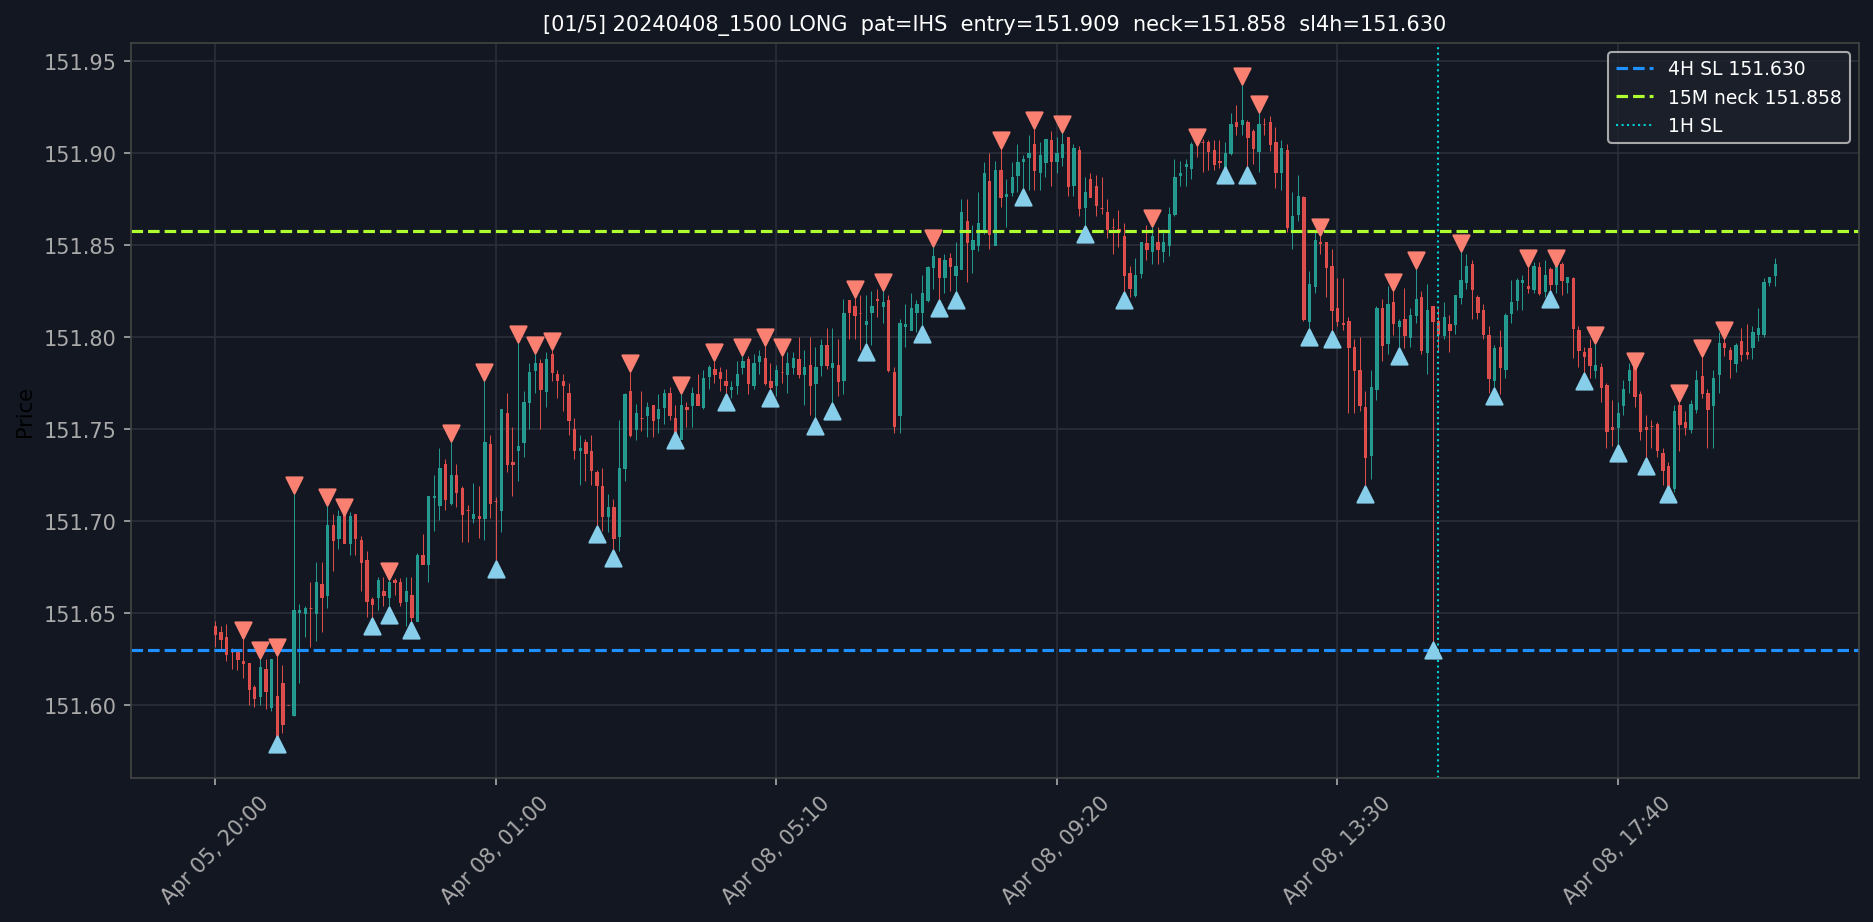
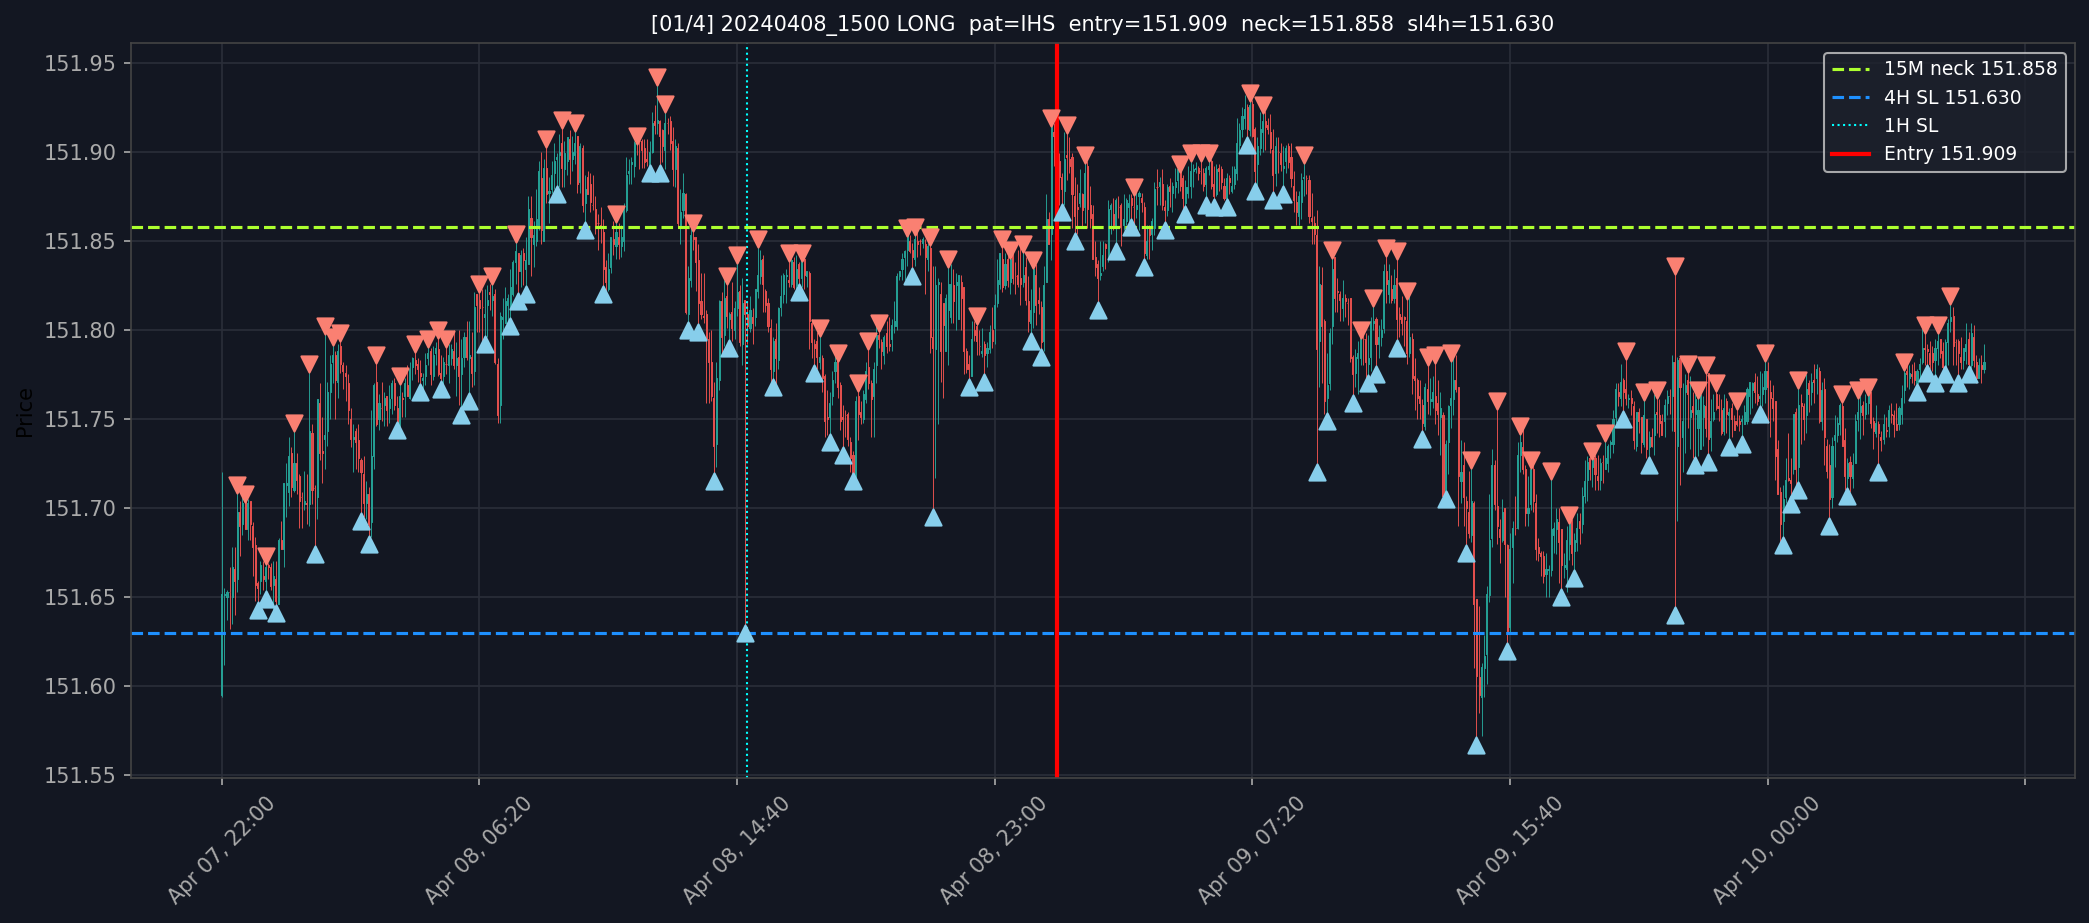
Feat: #024a プロット生成追加（save_entry_plot）
- window_scanner: save_entry_plot() 追加（PLOT_DESIGN_CONFIRMED仕様準拠）
- 表示要素: 5Mローソク/SH/SL markers/15Mneck/4HSL/1HSL縦線/Entry縦線
- PLOT_PRE_H=25 / PLOT_POST_H=40 (スキャン窓とは独立)
- warn_too_much_data=1000 で mplfinance 警告を抑制
- 4枚生成: IHS/DB×2/ASCENDING

diff --git a/src/window_scanner.py b/src/window_scanner.py
@@ -28,6 +28,8 @@ from src.swing_detector import (
 )
 from src.entry_logic import check_15m_range_low, ALLOWED_PATTERNS
 
+PLOT_OUT_DIR = _repo_root / 'logs/window_scan_plots'
+
 
 # ========== 定数 ==========
 DATA_PATH      = _repo_root / 'data/raw/usdjpy_multi_tf_2years.parquet'
@@ -38,6 +40,8 @@ WINDOW_SEARCH  = 8    # 4H SL ts 前後 ±8本(8時間)で 1H SL を探す範囲
 DIRECTION_MODE = 'LONG'  # SHORT は将来対応
 WICKTOL_PIPS   = 5.0     # 5M ネック越え許容 pips（実体下端 > neck + 5pips）
 PIP            = 0.01    # USDJPY 1pip = 0.01 円
+PLOT_PRE_H     = 25      # プロット: 1H SL 前 25時間（スキャン窓とは独立）
+PLOT_POST_H    = 40      # プロット: 1H SL 後 40時間
 
 
 # ========== リサンプル（backtest.py と同一。変更禁止） ==========
@@ -192,6 +196,129 @@ def scan_window_entry(df_5m_win: pd.DataFrame, sl_4h_val: float, sl_1h_ts: pd.Ti
     return None  # ネック越え未発生
 
 
+# ========== プロット生成 ==========
+
+def save_entry_plot(
+    df_5m: pd.DataFrame,
+    entry: dict,
+    idx: int,
+    total: int,
+) -> None:
+    """検出エントリーの 5M チャート + 参照線を PNG 保存する。
+
+    表示要素（PLOT_DESIGN_CONFIRMED 仕様）:
+      - 5M ローソク足
+      - 5M SH/SL マーカー（scatter）
+      - 15M neck 水平線（黄緑 #ADFF2F）
+      - 4H SL 水平線（青 #1E90FF）
+      - 1H SL 垂直線（シアン #00FFFF）
+      - エントリー時刻垂直線（赤 #FF0000）
+
+    プロット範囲: sl_1h_ts 基準で前25h / 後40h（スキャン窓とは独立）
+    """
+    try:
+        import mplfinance as mpf
+        import matplotlib.pyplot as plt
+    except ImportError:
+        print("  [SKIP] mplfinance が未インストールのためプロットをスキップ")
+        return
+
+    sl_1h_ts    = entry['sl_1h_ts']
+    entry_ts    = entry['entry_ts']
+    neck_15m    = entry['neck_15m']
+    sl_4h_val   = entry['sl_4h']
+    pattern     = entry['pattern']
+    entry_price = entry['entry_price']
+
+    # ---- プロット専用範囲（スキャン窓とは別に切り出す）----
+    plot_start = sl_1h_ts - pd.Timedelta(hours=PLOT_PRE_H)
+    plot_end   = sl_1h_ts + pd.Timedelta(hours=PLOT_POST_H)
+    df_plot    = df_5m.loc[plot_start:plot_end].copy()
+    if len(df_plot) < 10:
+        print(f"  [SKIP] プロットデータ不足: {sl_1h_ts}")
+        return
+
+    # ---- 5M SH/SL 検出 ----
+    sh_mask = detect_swing_highs(df_plot['high'], n=2)
+    sl_mask = detect_swing_lows(df_plot['low'],   n=2)
+
+    # ---- mplfinance スタイル ----
+    mc = mpf.make_marketcolors(
+        up='#26a69a', down='#ef5350',
+        edge='inherit', wick='inherit', volume='in'
+    )
+    s = mpf.make_mpf_style(
+        marketcolors=mc, facecolor='#131722',
+        edgecolor='#444', gridcolor='#2a2e39'
+    )
+
+    fig, axes = mpf.plot(
+        df_plot,
+        type='candle', style=s,
+        returnfig=True, figsize=(18, 7),
+        warn_too_much_data=1000,
+    )
+    ax = axes[0]
+    for _ax in axes[1:]:
+        _ax.set_visible(False)
+    fig.patch.set_facecolor('#131722')
+    ax.set_facecolor('#131722')
+
+    # ---- SH/SL マーカー（ax.scatter で整数x軸に描画）----
+    sh_x = [j for j, v in enumerate(sh_mask) if v]
+    sh_y = [float(df_plot['high'].iloc[j]) for j in sh_x]
+    sl_x = [j for j, v in enumerate(sl_mask) if v]
+    sl_y = [float(df_plot['low'].iloc[j]) for j in sl_x]
+    if sh_x:
+        ax.scatter(sh_x, sh_y, marker='v', s=60, color='#FA8072', zorder=5)
+    if sl_x:
+        ax.scatter(sl_x, sl_y, marker='^', s=60, color='#87CEEB', zorder=5)
+
+    # ---- 15M neck 水平線 ----
+    ax.axhline(y=neck_15m, color='#ADFF2F', linewidth=1.5,
+               linestyle='--', label=f'15M neck {neck_15m:.3f}')
+
+    # ---- 4H SL 水平線 ----
+    ax.axhline(y=sl_4h_val, color='#1E90FF', linewidth=1.5,
+               linestyle='--', label=f'4H SL {sl_4h_val:.3f}')
+
+    # ---- 1H SL 垂直線（シアン）----
+    idx_sl = df_plot.index.searchsorted(sl_1h_ts, side='left')
+    if idx_sl < len(df_plot):
+        try:
+            ax.axvline(x=idx_sl, color='#00FFFF', linewidth=1.0,
+                       linestyle=':', label='1H SL')
+        except Exception:
+            pass
+
+    # ---- エントリー垂直線（赤）----
+    idx_entry = df_plot.index.searchsorted(entry_ts, side='left')
+    if idx_entry < len(df_plot):
+        try:
+            ax.axvline(x=idx_entry, color='#FF0000', linewidth=2.0,
+                       linestyle='-', label=f'Entry {entry_price:.3f}')
+        except Exception:
+            pass
+
+    # ---- タイトル（英語: CJK豆腐対策）----
+    ts_str = pd.Timestamp(sl_1h_ts).strftime('%Y%m%d_%H%M')
+    ax.set_title(
+        f'[{idx:02d}/{total}] {ts_str} LONG  pat={pattern}'
+        f'  entry={entry_price:.3f}  neck={neck_15m:.3f}  sl4h={sl_4h_val:.3f}',
+        color='white', fontsize=10
+    )
+    ax.legend(facecolor='#1e222d', labelcolor='white', fontsize=9)
+    ax.tick_params(colors='#aaa')
+
+    # ---- 保存 ----
+    PLOT_OUT_DIR.mkdir(parents=True, exist_ok=True)
+    fname = PLOT_OUT_DIR / f'{idx:02d}_{ts_str}_{pattern}_scan.png'
+    plt.savefig(fname, dpi=150, bbox_inches='tight',
+                facecolor=fig.get_facecolor())
+    plt.close(fig)
+    print(f"  plot saved: {fname.name}")
+
+
 # ========== メイン実行 ==========
 
 def run_window_scan() -> pd.DataFrame:
@@ -276,6 +403,13 @@ def run_window_scan() -> pd.DataFrame:
     out_path.parent.mkdir(parents=True, exist_ok=True)
     df_entries.to_csv(out_path, index=False)
     print(f"\n結果CSV: {out_path}")
+
+    # ---- プロット生成 ----
+    if total > 0:
+        print(f"\nプロット生成中 ({total}件)...")
+        for i, row in enumerate(entries, start=1):
+            save_entry_plot(df_5m, row, idx=i, total=total)
+        print(f"プロット保存先: {PLOT_OUT_DIR}")
 
     return df_entries
 
